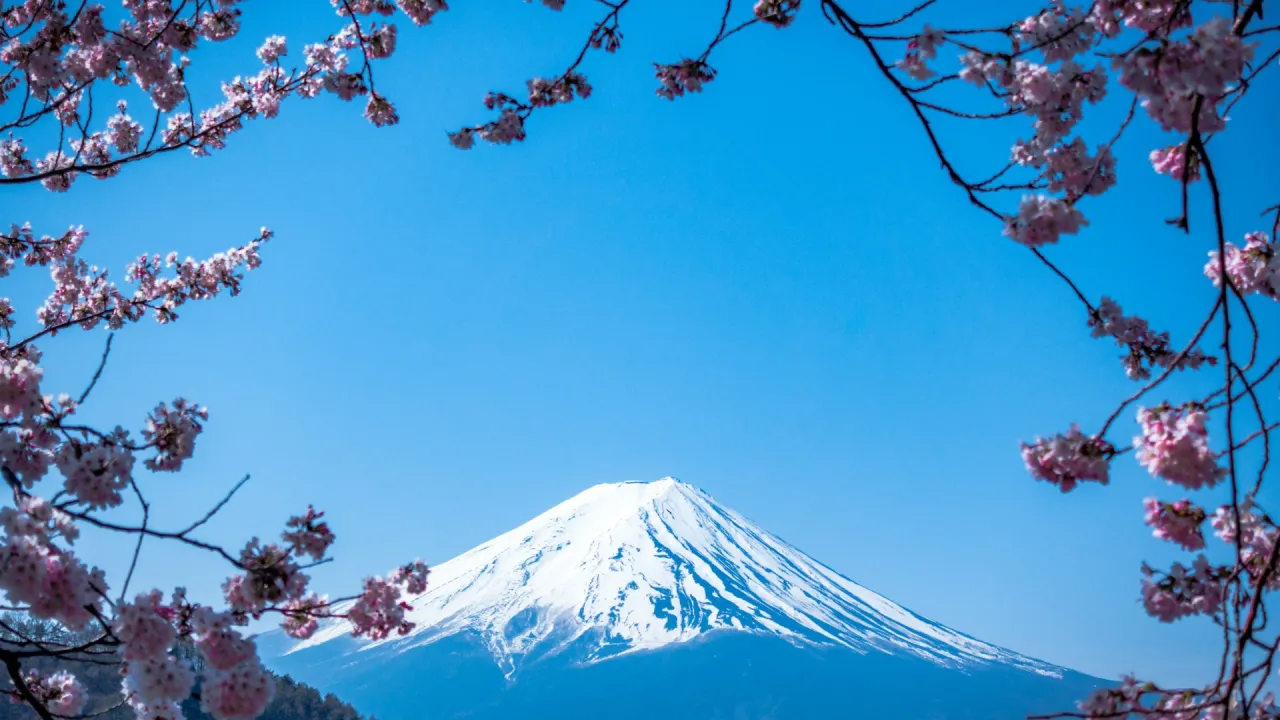
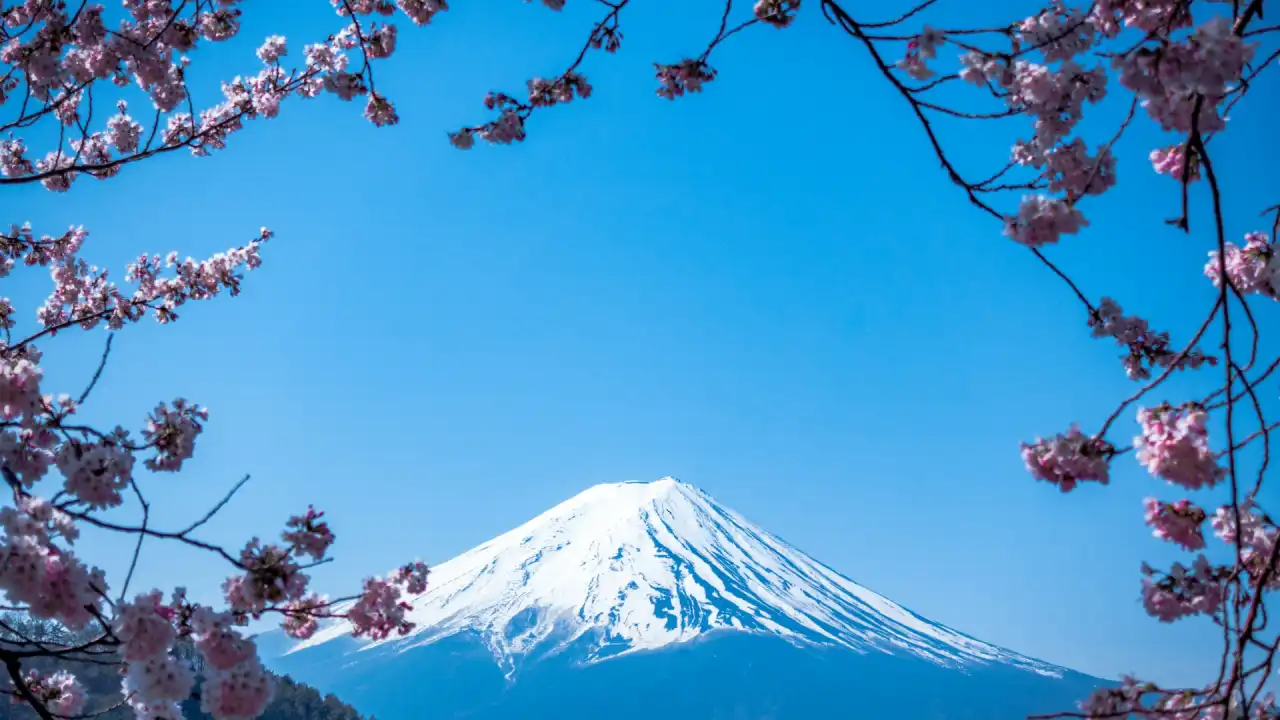
hero 图降低编码质量：它被 92% 的遮罩盖着，细节看不见
这张图上压着一层不透明度 .92 的渐变遮罩（.sa-hero__bg::after），只有 8%
透出来 —— 画面里能看到的是大块色彩关系，不是细节。按 q80 编码等于在为
看不见的东西付字节，而它还是 LCP 资源。

验证不是靠推断：把 q80 与 q30 分别叠加同样的 .92 遮罩合成出来对比，
肉眼无法区分。实测 q80 34.7 KB / q65 26.0 / q50 21.9 / q40 19.0 / q30 15.7。

取 q50（webp）与 q68（jpg），而不是更低 —— 留一档余量，万一日后调低
遮罩浓度不至于立刻露出压缩痕迹。各档重新生成后：
    640w  webp 34.7 → 22 KB
    1280w webp 87.5 → 54 KB
    1920w webp 164  → 96 KB

轮播图不套用这个策略：它们没有遮罩，是给人直接看的照片。

需要说明的是，这一项对 LCP 的实际帮助有限。当前 FCP 已经 1.0 秒、
LCP 5.3 秒，中间 4.3 秒的缺口在 1.6 Mbps 下折合约 860 KB 的传输量，
而整张 hero 图才 35 KB —— 省下的 13 KB 只值 0.06 秒。
换言之 LCP 元素很可能根本不是这张图，需要先确认它到底是谁。

Claude-Session: https://claude.ai/code/session_01FuKeErrB8JZKyk4jYx5QHj

Changed region(s): [[0.5625, 0.7639, 0.5938, 0.7944], [0.5312, 0.825, 0.5625, 0.8556]]

diff --git a/scripts/optimize-images.php b/scripts/optimize-images.php
@@ -54,10 +54,24 @@ $img_dir = dirname( __DIR__ ) . '/wp-content/themes/study-abroad-theme/assets/im
  * 超出显示尺寸的像素只会增加传输量，不会提升观感。
  */
 $targets = array(
+	/*
+	 * hero 用低质量编码，这不是偷工减料。
+	 *
+	 * 这张图上压着一层不透明度 .92 的渐变遮罩（style.css 的 .sa-hero__bg::after），
+	 * 只有 8% 透出来 —— 画面里能看到的是大块色彩关系，不是细节。
+	 * 按 q80 编码等于在为看不见的东西付字节，而它又是 LCP 资源。
+	 *
+	 * 验证方式：把 q80 与 q30 分别叠加同样的 .92 遮罩合成出来对比，
+	 * 肉眼无法区分。实测体积 q80 34.7 KB / q50 21.9 KB / q30 15.7 KB。
+	 * 取 q50 而不是更低，是留一档余量 —— 万一日后调低遮罩浓度，
+	 * 不至于立刻露出压缩痕迹。
+	 *
+	 * 轮播图不用这个策略：它们没有遮罩，是直接看的照片。
+	 */
 	'hero-bg.jpg' => array(
 		'ratio'   => 1920 / 1080,
 		'widths'  => array( 640, 1280, 1920 ),
-		'quality' => array( 'jpg' => 82, 'webp' => 80 ),
+		'quality' => array( 'jpg' => 68, 'webp' => 50 ),
 	),
 	'slide-1.jpg' => array(
 		'ratio'   => 960 / 380,
